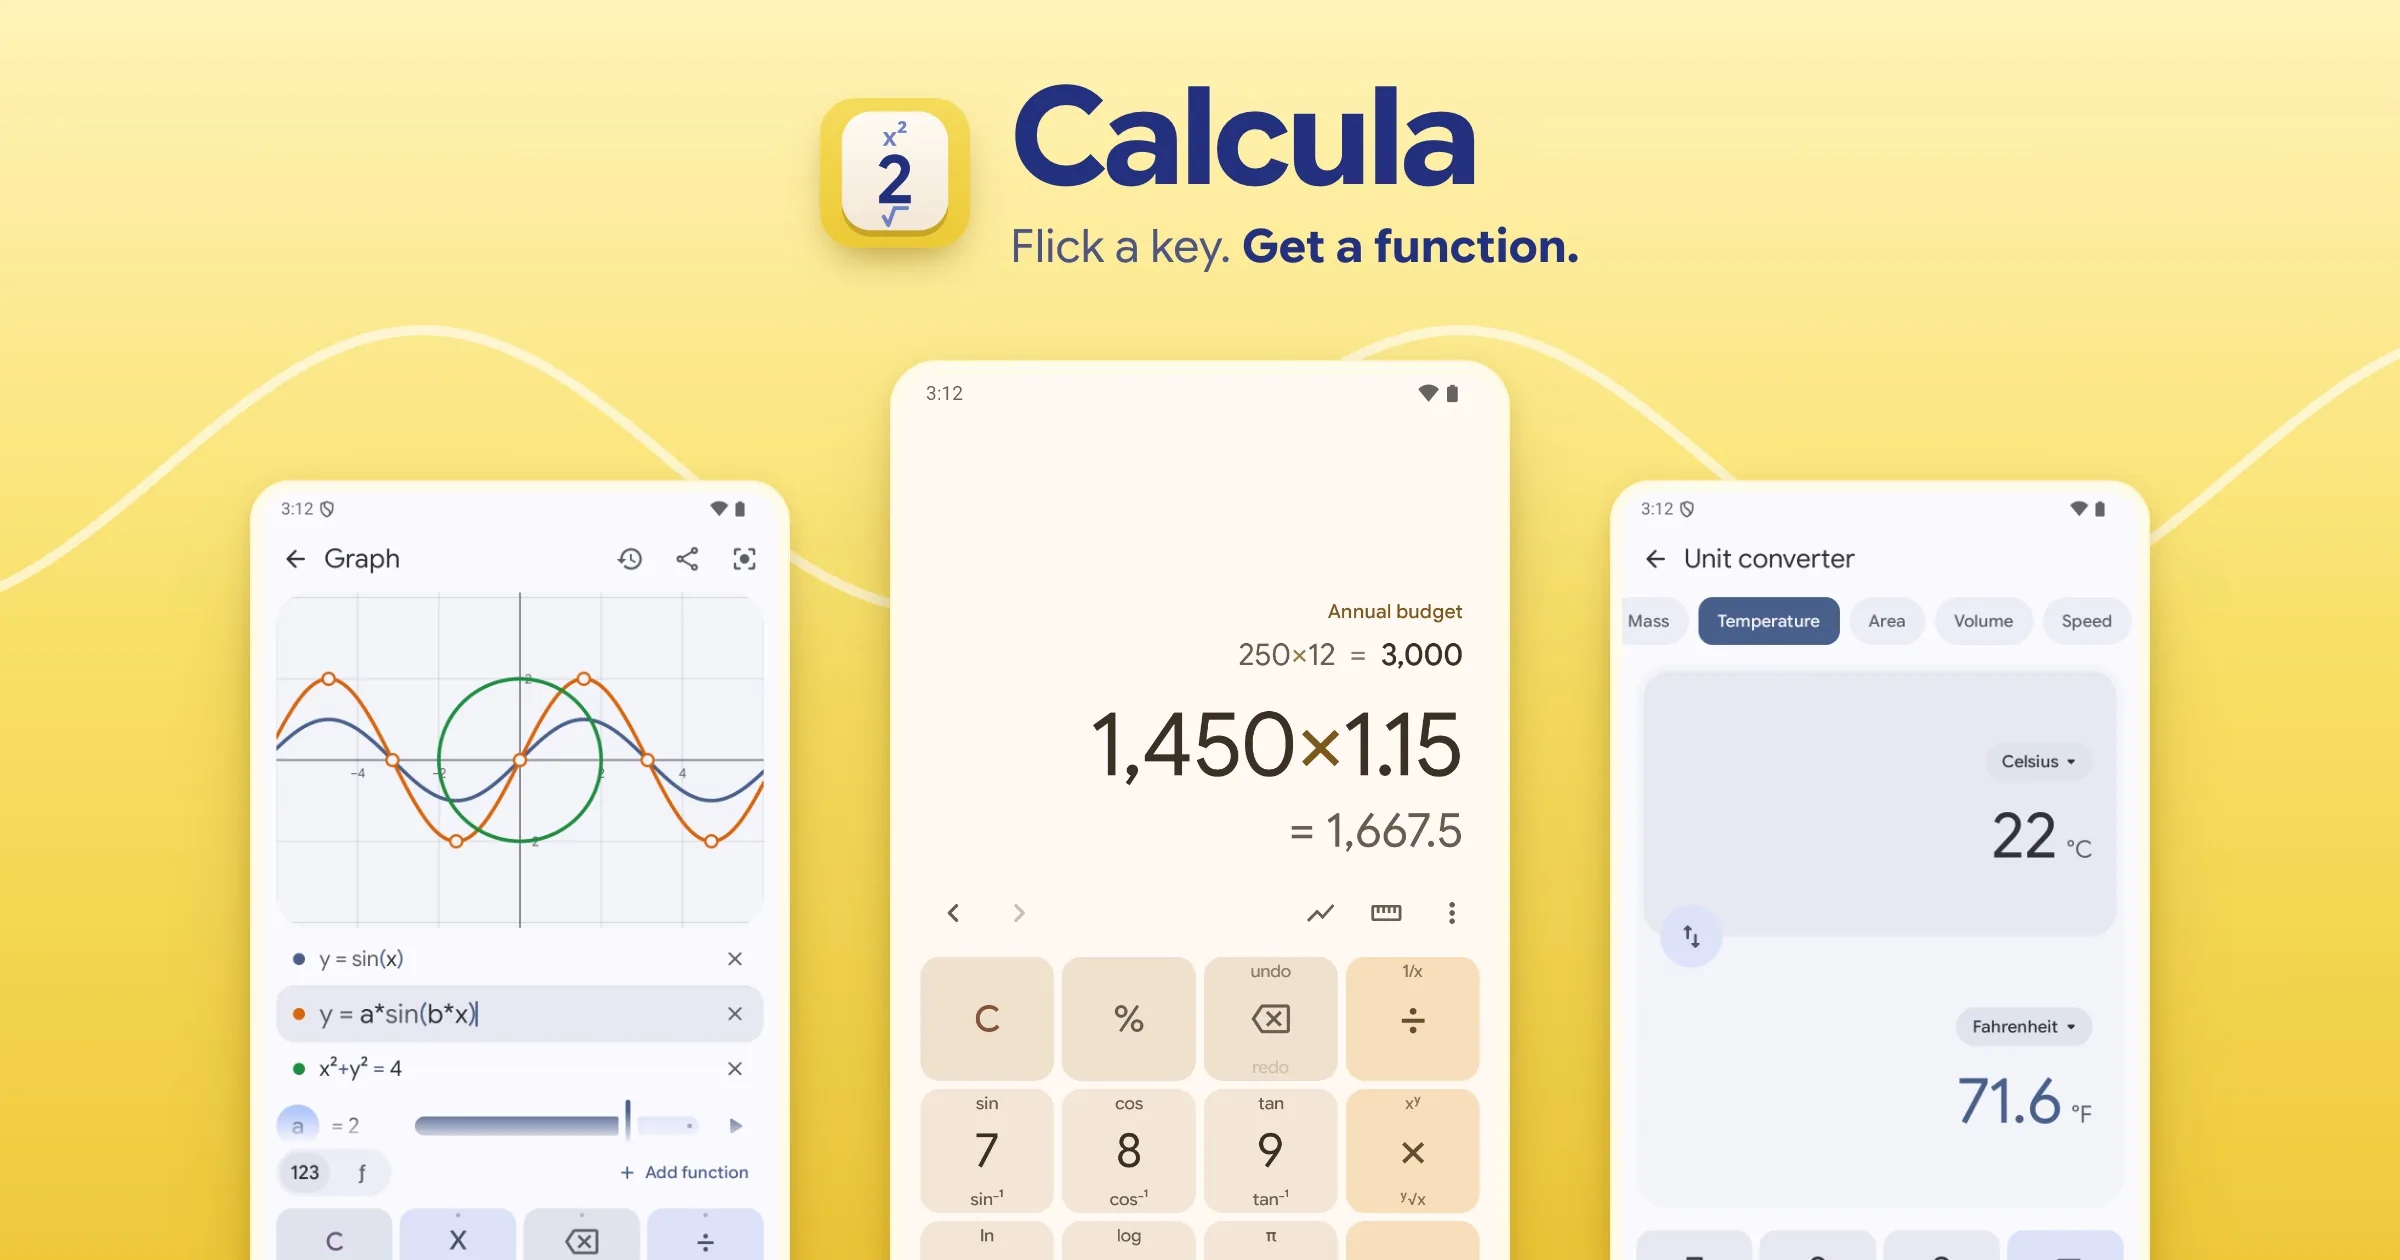
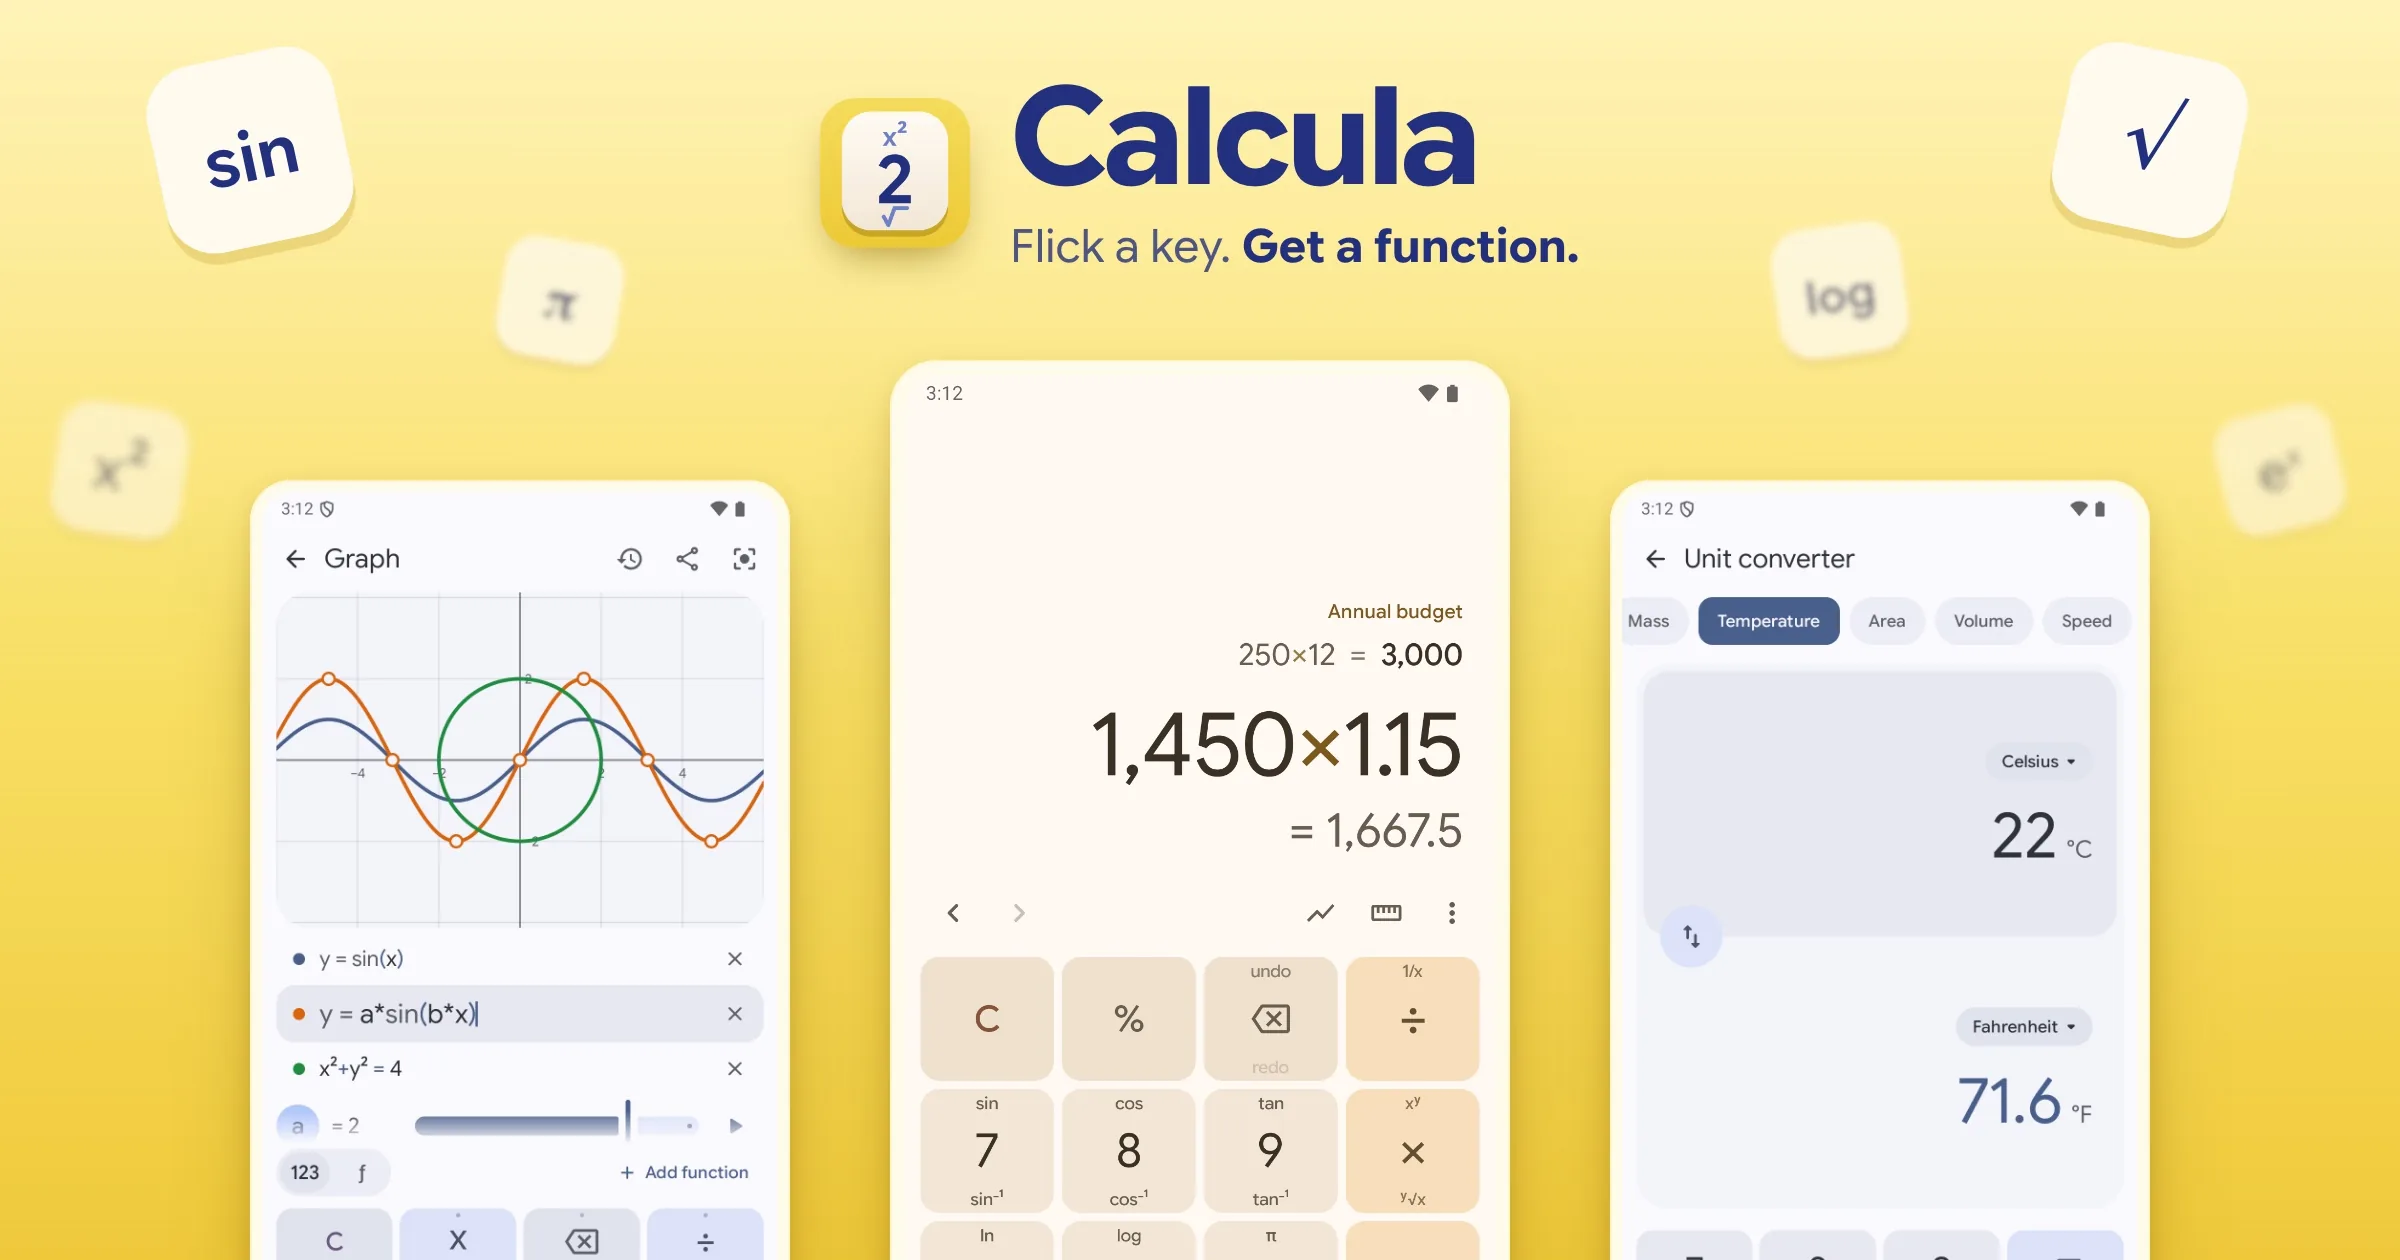
Calcula header: floating keys

diff --git a/lib/apps.ts b/lib/apps.ts
@@ -115,7 +115,7 @@ export const apps: AppData[] = [
     images: [
       {
         file: "hero",
-        alt: "Calcula's graph, keypad and unit converter on yellow with a soft sine wave",
+        alt: "Calcula's graph, keypad and unit converter with its scientific keys floating around the name",
       },
       {
         file: "tools",
